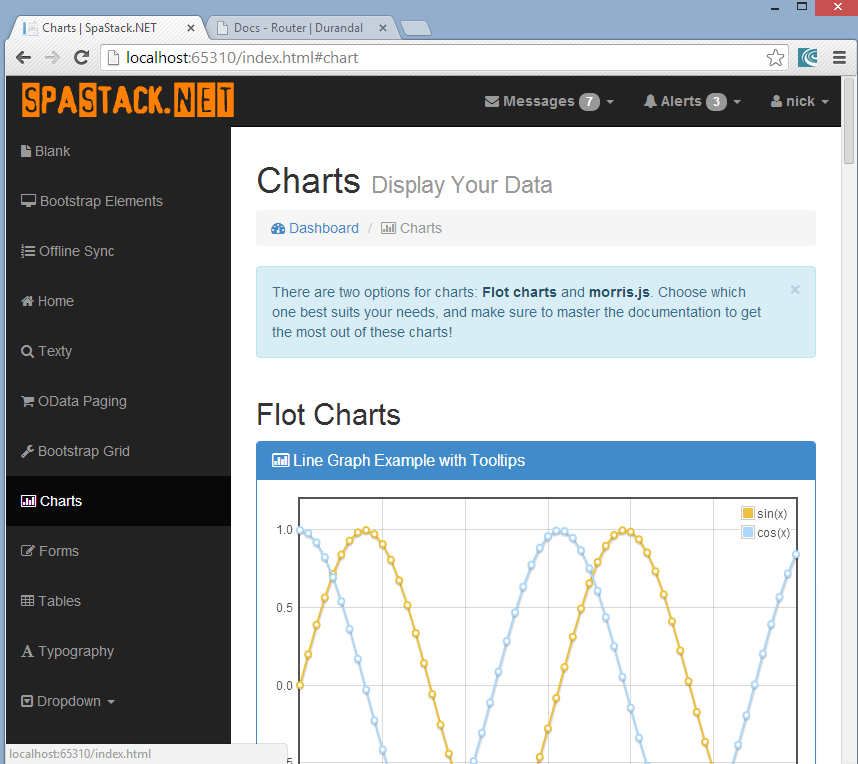
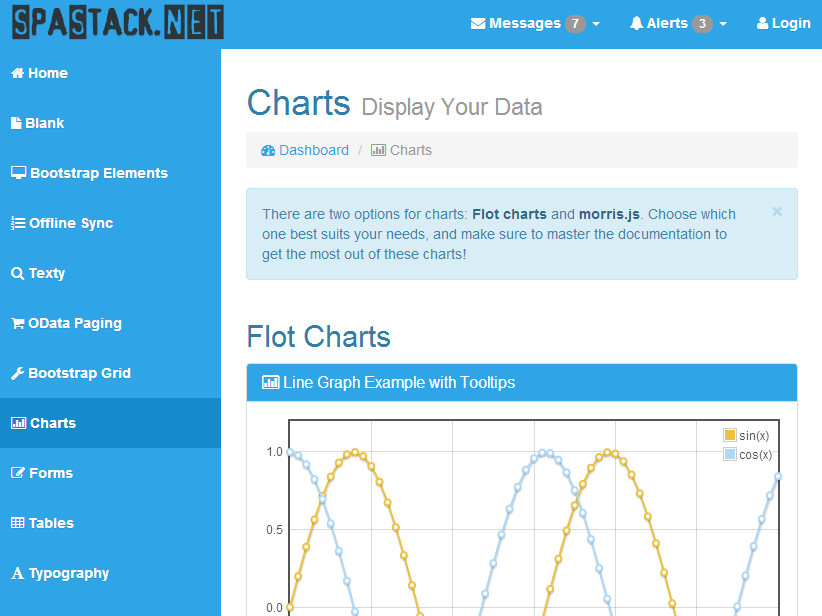
updated SpaStack.png image css and optimized for mobile

diff --git a/SpaStack.NET/Content/app.css b/SpaStack.NET/Content/app.css
@@ -68,7 +68,12 @@
     margin: 10% 30% 0 30%;
 }
 
-
+.desktop-image {
+    background-image: url("../Content/images/SpaStackM.PNG");
+    height: 240px;
+    width: 320px;
+    background-repeat: no-repeat;
+}
 
 /* 
     Alias custom font
@@ -147,5 +152,11 @@ a.alias-font:hover {
 
     .splash-loader {
         font-size: 75px;
+    }
+    .desktop-image {
+        background-image: url("../Content/images/SpaStack.PNG");
+        height: 616px;
+        width: 822px;
+        background-repeat: no-repeat;
     }
 }

diff --git a/SpaStack.NET/App/views/home.html b/SpaStack.NET/App/views/home.html
@@ -30,7 +30,7 @@
         http://spastack.azurewebsites.net/mobile.html
     </p>
     <p><code>Desktop View</code></p>
-    <p><img alt="Screenshot" src="Content/images/SPAStack.PNG" /></p>
+    <p><div class="desktop-image"></div></p>
     <p><code>Android View</code></p>
     <p><img alt="Screenshot" src="Content/images/SpaStackAndroid.png" /></p>
     <p><code>iPhone View</code></p>
